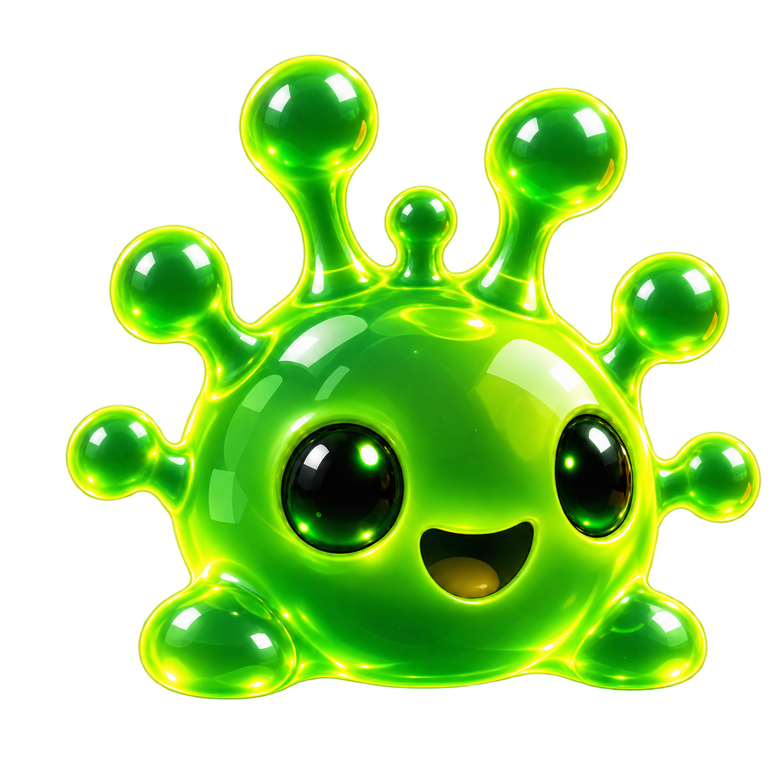
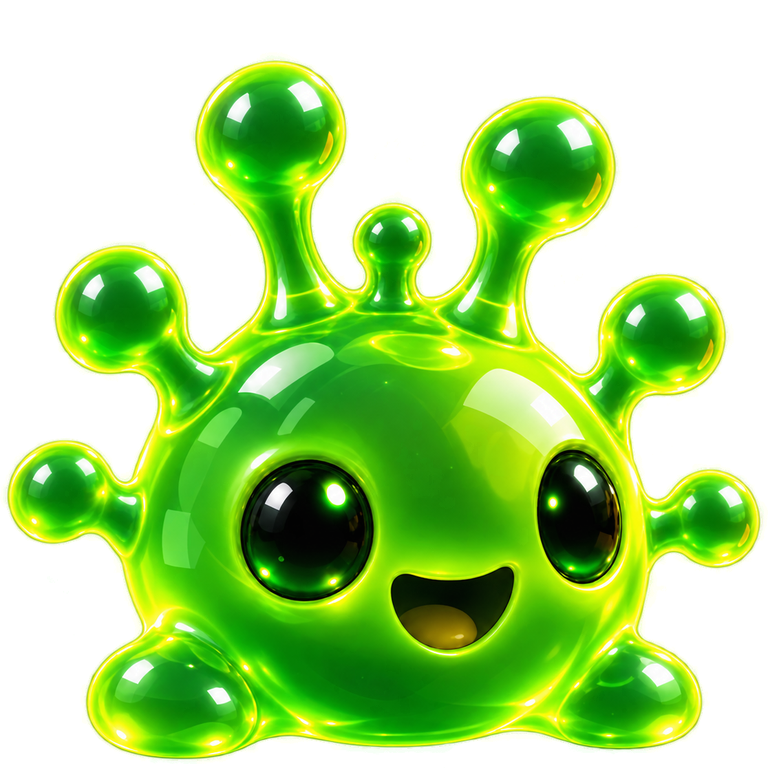
UI a21: symbol fallback font for Rajdhani / Russo One; cutouts lose their dark halo
- UiKit gives both faces DejaVu Sans Mono as a fallback (once, on load): they have no
  arrows / stars / ticks, and the web build has no system fonts (boxes before)
- tools/ui_art.py fades the near-black halo + drop shadow connected to the image border
  (VEX / VIRIDIAN / EMBER / SOLAR; NULL's dark body reaches its edge, so it keeps its own)

diff --git a/tools/ui_art.py b/tools/ui_art.py
@@ -56,6 +56,36 @@ def key_out_dark(im: Image.Image, tol: int = 22) -> Image.Image:
     return out
 
 
+def fade_dark_fringe(im: Image.Image, lo: int = 34, hi: int = 58) -> Image.Image:
+    """The originals carry a near-black halo + drop shadow from their old backdrop: invisible on the dark menus, a dark
+    band over bright art (mission results). Fade the near-black pixels CONNECTED TO THE OUTSIDE (a flood from the border
+    through transparent / near-black pixels), ramping back to full by `hi` - so the creatures' own dark parts (pupils,
+    EMBER's rocks, NULL's body), enclosed by their bright outline, are never touched."""
+    im = im.convert("RGBA")
+    w, h = im.size
+    px = im.load()
+    seen = bytearray(w * h)
+    stack = [(x, 0) for x in range(w)] + [(x, h - 1) for x in range(w)] + [(0, y) for y in range(h)] + [(w - 1, y) for y in range(h)]
+    while stack:
+        x, y = stack.pop()
+        i = y * w + x
+        if seen[i]:
+            continue
+        r, g, b, a = px[x, y]
+        m = max(r, g, b)
+        if a > 8 and m >= hi:
+            continue                                  # the creature's lit edge: the flood stops here
+        seen[i] = 1
+        if a > 0:
+            k = 0.0 if m <= lo else (m - lo) / float(hi - lo)
+            px[x, y] = (r, g, b, int(a * k))
+        if x > 0: stack.append((x - 1, y))
+        if x < w - 1: stack.append((x + 1, y))
+        if y > 0: stack.append((x, y - 1))
+        if y < h - 1: stack.append((x, y + 1))
+    return im
+
+
 def fit(im: Image.Image, width: int) -> Image.Image:
     if im.width <= width:
         return im
@@ -68,6 +98,8 @@ def main() -> int:
     for f in ["vex", "null", "bloom", "ember", "solar"]:
         im = Image.open(os.path.join(REFS, f + ".png"))
         im = im.convert("RGBA") if im.mode == "RGBA" else key_out_dark(im)
+        if f != "null":                              # NULL's own dark body reaches its lower edge: the flood would eat it
+            im = fade_dark_fringe(im)
         im = im.crop(im.getbbox())                   # trim the empty margin: the pages place the art themselves
         side = max(im.size)
         sq = Image.new("RGBA", (side, side), (0, 0, 0, 0))
